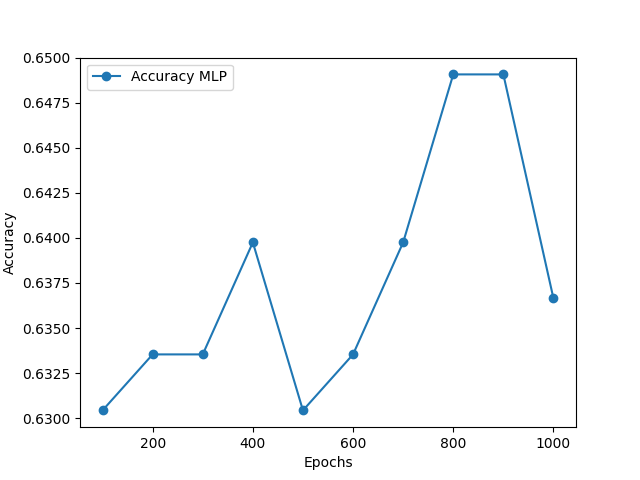
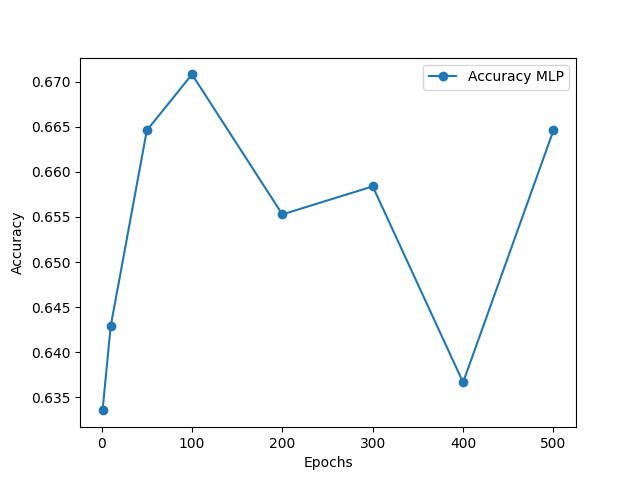
Updated 3.2

diff --git a/machineLearning.py b/machineLearning.py
@@ -378,19 +378,17 @@ def plotAccuracyFunction(listOfEpochs,datapoints):
     plt.show()
 
 accuracyPlot = []
-epochs = [100,200,300,400,500,600,700,800,900,1000]
+epochs = [1,10,50,100,200,300,400,500]
 
 print("MLP Accuracy")
+accuracyPlot.append(runMLPClassifier(1))
+accuracyPlot.append(runMLPClassifier(10))
+accuracyPlot.append(runMLPClassifier(50))
 accuracyPlot.append(runMLPClassifier(100))
 accuracyPlot.append(runMLPClassifier(200))
 accuracyPlot.append(runMLPClassifier(300))
 accuracyPlot.append(runMLPClassifier(400))
 accuracyPlot.append(runMLPClassifier(500))
-accuracyPlot.append(runMLPClassifier(600))
-accuracyPlot.append(runMLPClassifier(700))
-accuracyPlot.append(runMLPClassifier(800))
-accuracyPlot.append(runMLPClassifier(900))
-accuracyPlot.append(runMLPClassifier(1000))
 
 print("Random Forest Accuracy")
 runForestClassifier(5)
